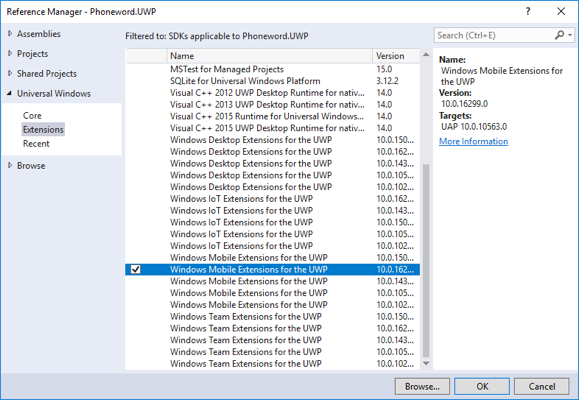
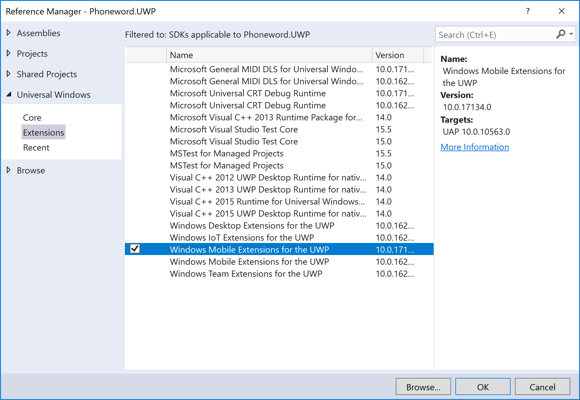
Getting started updates (#644)
* Fixed method name.

* Getting started updates for UWP.

* Edits.

* Minor edit.

diff --git a/docs/xamarin-forms/get-started/hello-xamarin-forms/quickstart.md b/docs/xamarin-forms/get-started/hello-xamarin-forms/quickstart.md
@@ -7,7 +7,7 @@ ms.assetid: 3f2f9c2d-d204-43bc-8c8a-a55ce1e6d2c8
 ms.technology: xamarin-forms
 author: davidbritch
 ms.author: dabritch
-ms.date: 06/13/2018
+ms.date: 09/13/2018
 ---
 
 # Xamarin.Forms Quickstart
@@ -344,15 +344,33 @@ Create the Phoneword application as follows:
 
     Save the changes to the manifest by pressing **CTRL+S**, and close the file.
 
-24. In **Solution Explorer**, right click on the **Phoneword.UWP** project and select **Add > New Item...**:
+24. In **Solution Explorer**, right click on the **Phoneword.UWP** project and select **Properties**:
 
-    ![](quickstart-images/vs/add-new-item-uwp.png "Add New Item")
+    ![](quickstart-images/vs/uwp-project-properties.png "Project Properties")
 
-25. In the **Add New Item** dialog, select **Visual C# > Code > Class**, name the new file **PhoneDialer**, and click the **Add** button:
+25. In the **Project Properties** window, change the **Target version** and **Min version** drop-downs to build 17134 of Windows 10:
+
+    ![](quickstart-images/vs/uwp-target-versions.png "Build Target Properties")
+
+26. In **Solution Explorer**, in the **Phoneword.UWP** project, right-click **References**, and select **Add Reference...**:
+
+    ![](quickstart-images/vs/uwp-add-reference.png "Add Reference")
+
+27. In the **Reference Manager** dialog, check the checkbox for **Universal Windows > Extensions > Windows Mobile Extensions for UWP**, and click the **OK** button:
+
+    ![](quickstart-images/vs/uwp-add-reference-extensions.png "Add Windows Mobile Extensions for UWP")
+
+    Note that v10.0.17134.0 of the Windows Mobile Extensions for UWP must be selected to build against build 17134 of Windows 10.
+
+28. In **Solution Explorer**, right click on the **Phoneword.UWP** project and select **Add > New Item...**:
+
+    ![](quickstart-images/vs/add-new-item-uwp.png "Add New Item")    
+
+29. In the **Add New Item** dialog, select **Visual C# > Code > Class**, name the new file **PhoneDialer**, and click the **Add** button:
 
     ![](quickstart-images/vs/new-phone-dialer-uwp.w157.png "Add New Class")
 
-26. In **PhoneDialer.cs**, remove all of the template code and replace it with the following code. This code creates the `Dial` method, and helper methods, that will be used on the Universal Windows Platform to dial a translated phone number:
+30. In **PhoneDialer.cs**, remove all of the template code and replace it with the following code. This code creates the `Dial` method, and helper methods, that will be used on the Universal Windows Platform to dial a translated phone number:
 
     ```csharp
     using Phoneword.UWP;
@@ -403,44 +421,34 @@ Create the Phoneword application as follows:
 
     Save the changes to **PhoneDialer.cs** by pressing **CTRL+S**, and close the file.
 
-27. In **Solution Explorer**, in the **Phoneword.UWP** project, right-click **References**, and select **Add Reference...**:
-
-    ![](quickstart-images/vs/uwp-add-reference.png "Add Reference")
-
-28. In the **Reference Manager** dialog, select **Universal Windows > Extensions > Windows Mobile Extensions for UWP**, and click the **OK** button:
-
-    ![](quickstart-images/vs/uwp-add-reference-extensions.png "Add Windows Mobile Extensions for UWP")
-
-    Note that v10.0.16299.0 of the Windows Mobile Extensions for UWP must be selected to use the `PhoneLine` class.
-
-29. In **Solution Explorer**, in the **Phoneword.UWP** project, double-click **Package.appxmanifest**:
+31. In **Solution Explorer**, in the **Phoneword.UWP** project, double-click **Package.appxmanifest**:
 
     ![](quickstart-images/vs/uwp-manifest.png "Open the UWP Manifest")
 
-30. In the **Capabilities** page, enable the **Phone Call** capability. This gives the application permission to place a phone call:
+32. In the **Capabilities** page, enable the **Phone Call** capability. This gives the application permission to place a phone call:
 
     ![](quickstart-images/vs/uwp-manifest-changed.png "Enable Phone Call Capability")
 
     Save the changes to the manifest by pressing **CTRL+S**, and close the file.
 
-31. In Visual Studio, select the **Build > Build Solution** menu item (or press **CTRL+SHIFT+B**). The application will build and a success message will appear in the Visual Studio status bar:
+33. In Visual Studio, select the **Build > Build Solution** menu item (or press **CTRL+SHIFT+B**). The application will build and a success message will appear in the Visual Studio status bar:
 
     ![](quickstart-images/vs/build-successful.png "Build Successful")
 
     If there are errors, repeat the previous steps and correct any mistakes until the application builds successfully.
 
-32. In **Solution Explorer**, right click on the **Phoneword.UWP** project and select **Set as StartUp Project**:
+34. In **Solution Explorer**, right click on the **Phoneword.UWP** project and select **Set as StartUp Project**:
 
     ![](quickstart-images/vs/uwp-set-as-startup-project.png "Set as StartUp Project")
 
-33. In the Visual Studio toolbar, press the **Start** button (the triangular button that resembles a Play button) to launch the application:
+35. In the Visual Studio toolbar, press the **Start** button (the triangular button that resembles a Play button) to launch the application:
 
     ![](quickstart-images/vs/start.png "Visual Studio Toolbar")
     ![](quickstart-images/vs/phone-result-uwp.png "Phoneword Application UWP")
 
-34. In **Solution Explorer**, right click on the **Phoneword.Android** project and select **Set as StartUp Project**.
-35. In the Visual Studio toolbar, press the **Start** button (the triangular button that resembles a Play button) to launch the application inside an Android emulator.
-36. If you have an iOS device and meet the Mac system requirements for Xamarin.Forms development, use a similar technique to deploy the app to the iOS device. Alternatively, deploy the app to the [iOS remote simulator](~/tools/ios-simulator/index.md).
+36. In **Solution Explorer**, right click on the **Phoneword.Android** project and select **Set as StartUp Project**.
+37. In the Visual Studio toolbar, press the **Start** button (the triangular button that resembles a Play button) to launch the application inside an Android emulator.
+38. If you have an iOS device and meet the Mac system requirements for Xamarin.Forms development, use a similar technique to deploy the app to the iOS device. Alternatively, deploy the app to the [iOS remote simulator](~/tools/ios-simulator/index.md).
 
     Note: phone calls are not supported on all the simulators.
 

diff --git a/docs/xamarin-forms/get-started/introduction-to-xamarin-forms.md b/docs/xamarin-forms/get-started/introduction-to-xamarin-forms.md
@@ -90,7 +90,7 @@ public partial class AppDelegate : global::Xamarin.Forms.Platform.iOS.FormsAppli
 }
 ```
 
-The `FinishedLoading` override initializes the Xamarin.Forms framework by calling the `Init` method. This causes the iOS-specific implementation of Xamarin.Forms to be loaded in the application before the root view controller is set by the call to the `LoadApplication` method.
+The `FinishedLaunching` override initializes the Xamarin.Forms framework by calling the `Init` method. This causes the iOS-specific implementation of Xamarin.Forms to be loaded in the application before the root view controller is set by the call to the `LoadApplication` method.
 
 <a name="Launching_in_Android" />
 
